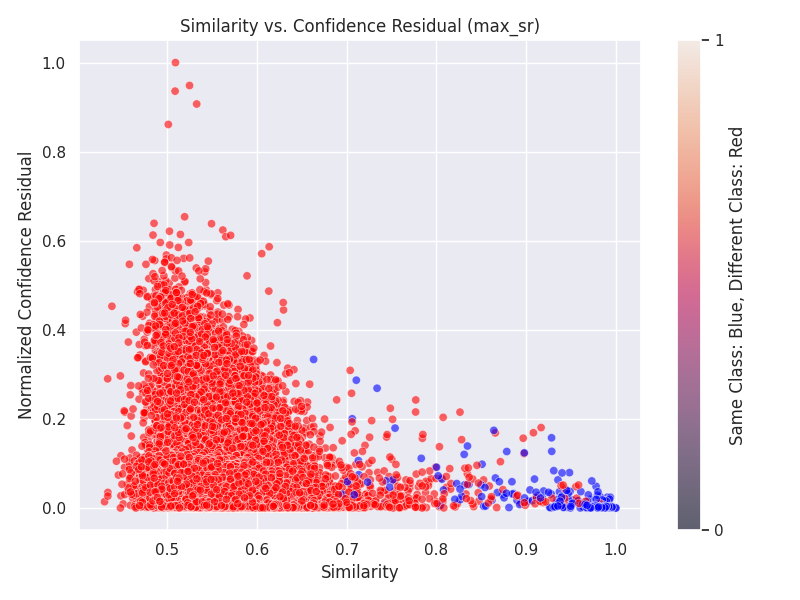
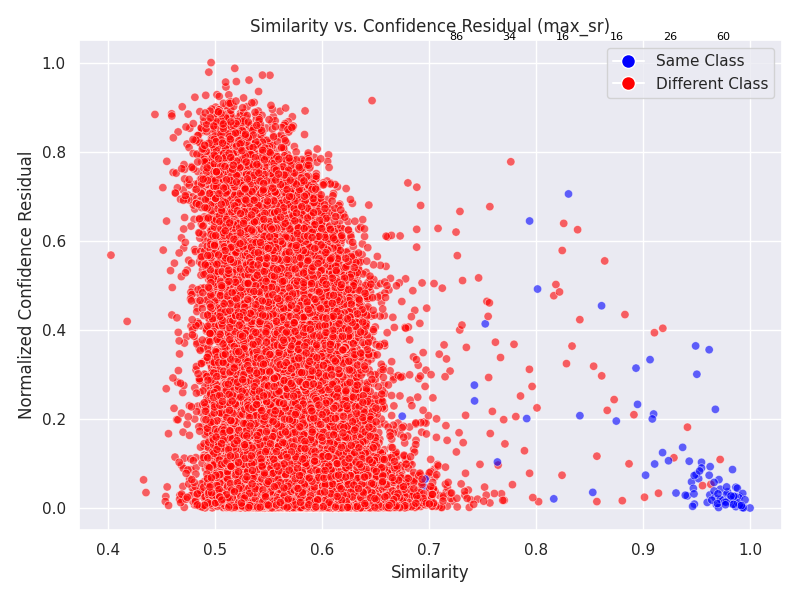
awd

diff --git a/test.py b/test.py
@@ -7,8 +7,7 @@ import torch
 import torch.nn as nn
 import matplotlib.pyplot as plt
 from collections import Counter
-import json
-from torchvision import models
+from matplotlib.lines import Line2D
 
 
 
@@ -51,10 +50,13 @@ def main(args):
         'labels': in_labels
     }
 
-    similarities = []
-    confidence_residuals = []
-    colors = []
+
     for key in in_scores_dict:
+        similarities = []
+        confidence_residuals = []
+        colors = []
+        similarity_bins = [f"{i}-{i+5}" for i in range(70, 100, 5)]
+        similarity_counts = Counter({bin_label: 0 for bin_label in similarity_bins})
         for _ in range(100000):
             i = random.randint(0, in_set_length - 1)
             j = random.randint(0, in_set_length - 1)
@@ -63,8 +65,8 @@ def main(args):
             similarities.append(similarity)
             confidence_residuals.append(confidence_residual)
 
-            similarity_bins = [f"{i}-{i+5}" for i in range(70, 100, 5)]
-            similarity_counts = Counter({bin_label: 0 for bin_label in similarity_bins})
+
+
 
             if in_labels[i] == in_labels[j]:
                 colors.append('blue')  
@@ -97,7 +99,17 @@ def main(args):
         plt.xlabel('Similarity')
         plt.ylabel('Normalized Confidence Residual')
         plt.title(f'Similarity vs. Confidence Residual ({key})')
-        plt.colorbar(label='Same Class: Blue, Different Class: Red', ticks=[0, 1], orientation='vertical')
+        for idx, (bin_label, count) in enumerate(similarity_counts.items()):
+            bin_start, bin_end = [int(x) for x in bin_label.split('-')]
+            avg_similarity = (bin_start + bin_end) / 200
+            plt.text(avg_similarity, 1.05, f"{count}", ha='center', fontsize=8, color="black")
+        
+        legend_elements = [
+            Line2D([0], [0], marker='o', color='w', label='Same Class', markerfacecolor='blue', markersize=10),
+            Line2D([0], [0], marker='o', color='w', label='Different Class', markerfacecolor='red', markersize=10)
+        ]
+        plt.legend(handles=legend_elements, loc='upper right')
+
         plt.grid(True)
         plt.tight_layout()
         plt.savefig(output_path)
